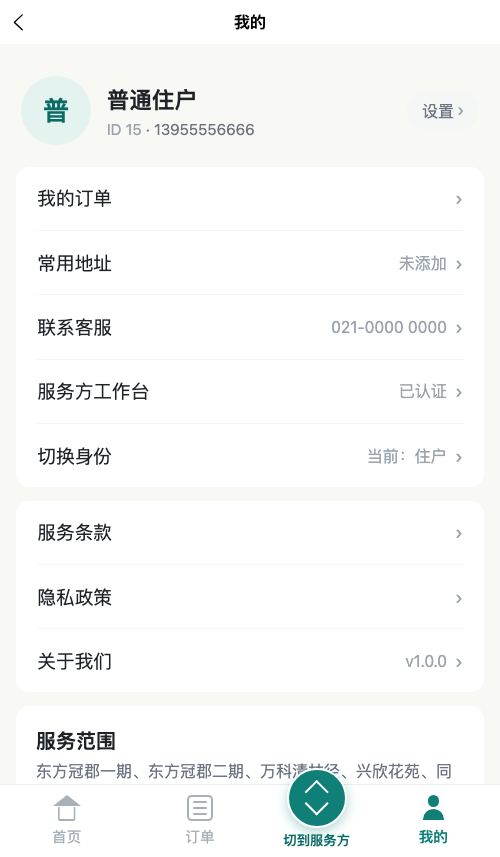
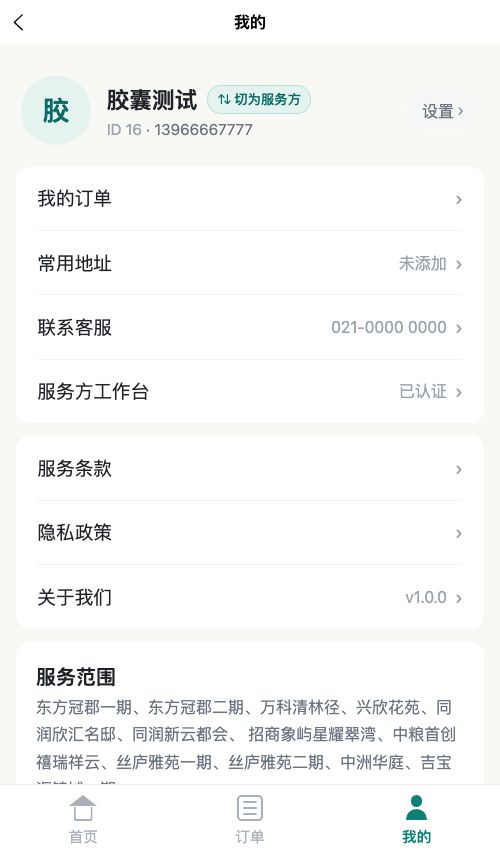
refactor(miniapp): 身份切换从 TabBar 移到用户名后
按反馈调整入口位置：底部导航只承担导航职责，不该塞业务操作。

TabBar：
- 去掉中间凸起圆钮，恢复三项等分（住户：首页/订单/我的；
  服务方：任务/接单池/我的），不再按 isProvider 多渲染一项

我的页：
- 用户名后加身份胶囊：已认证显示「⇅ 切为服务方 / 切为住户」，
  处于服务方视角时反色（深绿底白字）一眼能看出当前在哪一侧
- 未认证显示虚线「认证服务方」胶囊，点击直接去申请页
- 移除菜单里重复的「切换身份」行，避免两个入口做同一件事
- onSwitchView 简化：胶囊由 v-if 控制渲染，未认证时点不到

服务方工作台入口的条件从 role 改为 isProvider（语义一致，可读性更好）。

回归：5 个 tab 页 TabBar 均为三项均分、选中态正确、零 console 错误；
已认证用户住户↔服务方视角来回切换正常。

diff --git a/miniapp/src/pages/mine/index.vue b/miniapp/src/pages/mine/index.vue
@@ -55,19 +55,10 @@ function goProviderWork() {
 /**
  * 切换身份视角。已认证用户既是住户也是服务方，
  * 这里切的是「看哪一侧」，不动后端权限。
+ * 胶囊按钮由 v-if="user.isProvider" 控制渲染，未认证时根本点不到。
  */
 function onSwitchView() {
-  if (!user.isProvider) {
-    uni.showModal({
-      title: '还没有服务方权限',
-      content: '需先提交资质认证，通过后即可切换为服务方接单',
-      confirmText: '去认证',
-      success: (r) => {
-        if (r.confirm) goProviderApply()
-      },
-    })
-    return
-  }
+  if (!user.isProvider) return
   user.toggleView()
 }
 </script>
@@ -78,7 +69,22 @@ function onSwitchView() {
     <view class="profile">
       <view class="avatar">{{ (user.nickname || '住')[0] }}</view>
       <view class="profile-info">
-        <view class="nickname">{{ user.nickname || '住户' }}</view>
+        <!-- 用户名后面放身份切换：只有已认证服务方才渲染 -->
+        <view class="name-row">
+          <text class="nickname">{{ user.nickname || '住户' }}</text>
+          <view
+            v-if="user.isProvider"
+            class="role-pill"
+            :class="{ provider: user.isProviderView }"
+            @tap.stop="onSwitchView"
+          >
+            <text class="pill-swap">⇅</text>
+            <text class="pill-text">{{ user.isProviderView ? '切为住户' : '切为服务方' }}</text>
+          </view>
+          <view v-else class="role-pill ghost" @tap.stop="goProviderApply">
+            <text class="pill-text">认证服务方</text>
+          </view>
+        </view>
         <view class="uid">
           ID {{ user.userId || '-' }}
           <text v-if="user.phone" class="phone">· {{ user.phone }}</text>
@@ -110,8 +116,8 @@ function onSwitchView() {
           <text class="chev">›</text>
         </view>
       </view>
-      <!-- 认证通过后身份就是服务方，这里直接进工作台；否则走认证申请 -->
-      <view v-if="user.role === 'provider'" class="menu-item" @tap="goProviderWork">
+      <!-- 认证通过后可在服务方视角直接进工作台；未认证走申请 -->
+      <view v-if="user.isProvider" class="menu-item" @tap="goProviderWork">
         <text>服务方工作台</text>
         <view class="menu-right">
           <text class="menu-value">已认证</text>
@@ -122,16 +128,6 @@ function onSwitchView() {
         <text>成为服务方</text>
         <view class="menu-right">
           <text class="menu-value">认证后接单</text>
-          <text class="chev">›</text>
-        </view>
-      </view>
-      <!-- 身份切换：已认证用户可在住户/服务方两个视角间来回切 -->
-      <view class="menu-item" @tap="onSwitchView">
-        <text>切换身份</text>
-        <view class="menu-right">
-          <text class="menu-value">
-            {{ user.isProvider ? (user.isProviderView ? '当前：服务方' : '当前：住户') : '需先认证' }}
-          </text>
           <text class="chev">›</text>
         </view>
       </view>
@@ -202,9 +198,76 @@ function onSwitchView() {
   min-width: 0;
 }
 
+/* 用户名 + 身份切换并排 */
+.name-row {
+  display: flex;
+  align-items: center;
+  gap: 14rpx;
+  min-width: 0;
+}
+
 .nickname {
   font-size: 34rpx;
   font-weight: 600;
+  max-width: 260rpx;
+  overflow: hidden;
+  white-space: nowrap;
+  text-overflow: ellipsis;
+}
+
+/* 身份切换胶囊：已认证服务方显示，点击在两侧视角间切换 */
+.role-pill {
+  display: flex;
+  align-items: center;
+  gap: 4rpx;
+  height: 40rpx;
+  padding: 0 14rpx;
+  border-radius: 20rpx;
+  background: var(--brand-light);
+  border: 1rpx solid #b9ded8;
+  flex-shrink: 0;
+}
+
+.role-pill:active {
+  opacity: 0.75;
+}
+
+/* 处于服务方视角时反色，一眼能看出当前在哪一侧 */
+.role-pill.provider {
+  background: var(--brand);
+  border-color: var(--brand);
+}
+
+.pill-swap {
+  font-size: 20rpx;
+  color: var(--brand-dark);
+  line-height: 1;
+}
+
+.role-pill.provider .pill-swap {
+  color: #fff;
+}
+
+.pill-text {
+  font-size: 20rpx;
+  color: var(--brand-dark);
+  font-weight: 600;
+  line-height: 1;
+}
+
+.role-pill.provider .pill-text {
+  color: #fff;
+}
+
+/* 未认证：虚线弱化，提示可去认证 */
+.role-pill.ghost {
+  background: #fff;
+  border: 1rpx dashed #cfd8d6;
+}
+
+.role-pill.ghost .pill-text {
+  color: var(--text-sub);
+  font-weight: 400;
 }
 
 .uid {

diff --git a/miniapp/src/components/TabBar.vue b/miniapp/src/components/TabBar.vue
@@ -3,9 +3,9 @@
  * 自定义底部导航，按「视角」分流而不是按权限分流：
  * 住户视角：首页 / 订单 / 我的；服务方视角：任务 / 接单池 / 我的。
  *
- * 服务方本身也是住户（也要给自己下单），所以已认证用户在这里多一个
- * 中间的「切换」按钮，切的是 viewMode（看哪一侧），不动 role（有没有权限）。
- * 未认证用户中间不渲染该按钮，保持三项等分。
+ * 身份切换入口不在这里 —— 放在「我的」页用户名后面。
+ * 底部导航只承担导航职责，塞进业务操作会让三项等分结构变复杂，
+ * 也容易让用户误以为那是第四个页面。
  *
  * 图标用 CSS 画（房子、清单、人像），不引入图片资源：
  * 小程序不支持 <svg> 标签，图标字体又要多带字体文件，
@@ -32,63 +32,41 @@ const items = computed(() => {
   ]
 })
 
-/** 已认证用户才能看到视角切换 */
-const canSwitch = computed(() => user.isProvider)
-
 function go(item: { key: string; path: string }) {
   if (item.key === props.current) return
   uni.reLaunch({ url: item.path })
-}
-
-function onSwitch() {
-  user.toggleView()
 }
 </script>
 
 <template>
   <view class="tabbar">
-    <!-- 前两项 -->
     <view
-      v-for="item in items.slice(0, 2)"
+      v-for="item in items"
       :key="item.key"
       class="tab"
       :class="{ active: item.key === current }"
       @tap="go(item)"
     >
+      <!-- 房子 -->
       <view v-if="item.icon === 'house'" class="ico house">
         <view class="roof" />
         <view class="wall" />
       </view>
-      <view v-else class="ico list">
+
+      <!-- 清单 -->
+      <view v-else-if="item.icon === 'list'" class="ico list">
         <view class="line" />
         <view class="line" />
         <view class="line" />
       </view>
-      <text class="label">{{ item.label }}</text>
-    </view>
 
-    <!-- 中间：身份切换（仅已认证服务方可见） -->
-    <view v-if="canSwitch" class="tab switch-tab" @tap="onSwitch">
-      <view class="switch-btn">
-        <view class="swap">
-          <view class="arrow up" />
-          <view class="arrow down" />
-        </view>
-      </view>
-      <text class="label switch-label">{{ user.isProviderView ? '切到住户' : '切到服务方' }}</text>
-    </view>
-
-    <!-- 我的 -->
-    <view
-      class="tab"
-      :class="{ active: items[2].key === current }"
-      @tap="go(items[2])"
-    >
-      <view class="ico user">
+      <!-- 人像 -->
+      <view v-else class="ico user">
         <view class="head" />
         <view class="shoulder" />
       </view>
-      <text class="label">{{ items[2].label }}</text>
+
+      <text class="label">{{ item.label }}</text>
     </view>
   </view>
 </template>
@@ -131,71 +109,6 @@ function onSwitch() {
 
 .tab.active .label {
   font-weight: 600;
-}
-
-/* ---- 身份切换：中间凸起圆形按钮 ---- */
-.switch-tab {
-  flex: 0 0 150rpx;
-  position: relative;
-  height: 108rpx;
-}
-
-.switch-btn {
-  position: absolute;
-  left: 50%;
-  top: -26rpx;
-  transform: translateX(-50%);
-  width: 84rpx;
-  height: 84rpx;
-  border-radius: 50%;
-  background: var(--brand);
-  display: flex;
-  align-items: center;
-  justify-content: center;
-  box-shadow: 0 6rpx 18rpx rgba(15, 127, 120, 0.32);
-  border: 4rpx solid #fff;
-}
-
-.switch-btn:active {
-  transform: translateX(-50%) scale(0.94);
-}
-
-.swap {
-  display: flex;
-  flex-direction: column;
-  gap: 5rpx;
-}
-
-.arrow {
-  width: 26rpx;
-  height: 26rpx;
-  border-right: 4rpx solid #fff;
-  border-bottom: 4rpx solid #fff;
-  box-sizing: border-box;
-}
-
-.arrow.up {
-  transform: rotate(-135deg);
-  margin-bottom: -6rpx;
-}
-
-.arrow.down {
-  transform: rotate(45deg);
-  margin-top: -6rpx;
-}
-
-.switch-label {
-  /* 与两侧 tab 的 label 同高：两侧是「图标 40rpx + gap 8rpx + 文字」垂直居中，
-     这里直接绝对贴底，保证基线一致 */
-  position: absolute;
-  bottom: 14rpx;
-  left: 0;
-  right: 0;
-  text-align: center;
-  color: var(--brand-dark);
-  font-size: 20rpx;
-  font-weight: 600;
-  line-height: 1.2;
 }
 
 /* ---- 房子 ---- */
